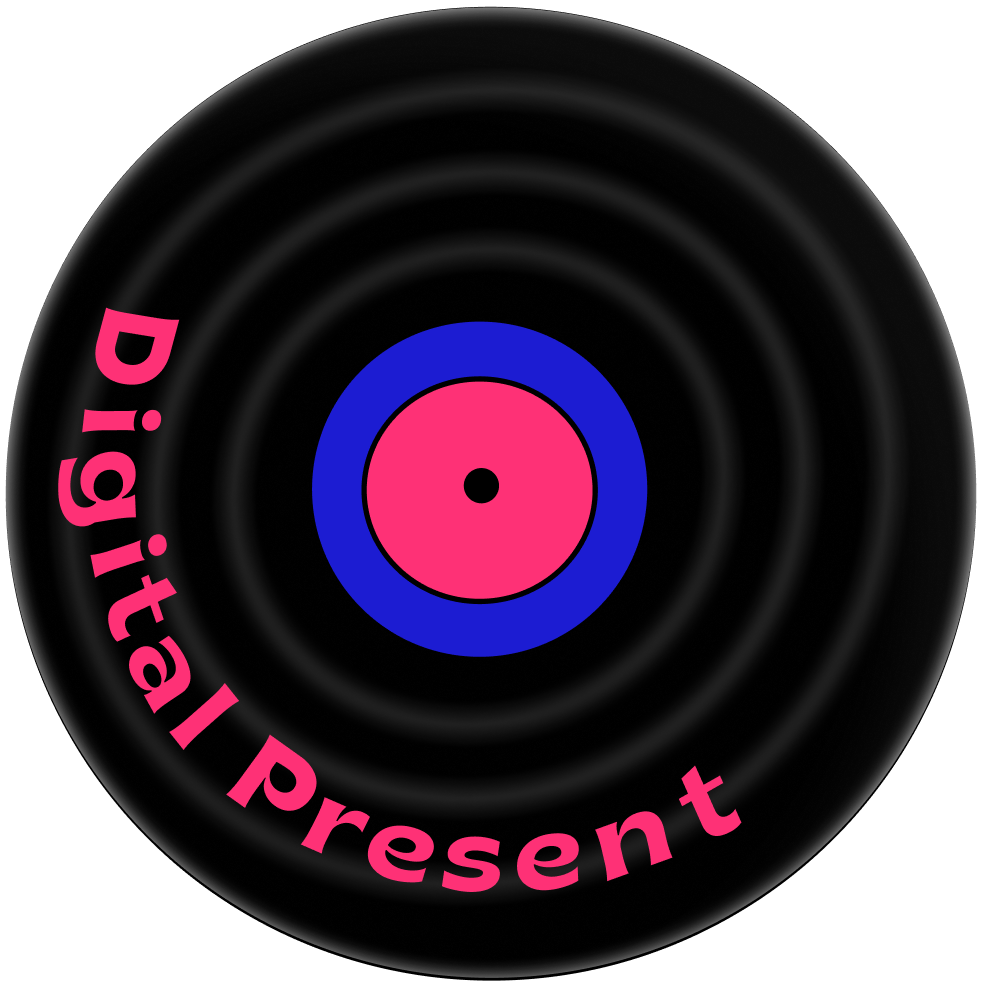
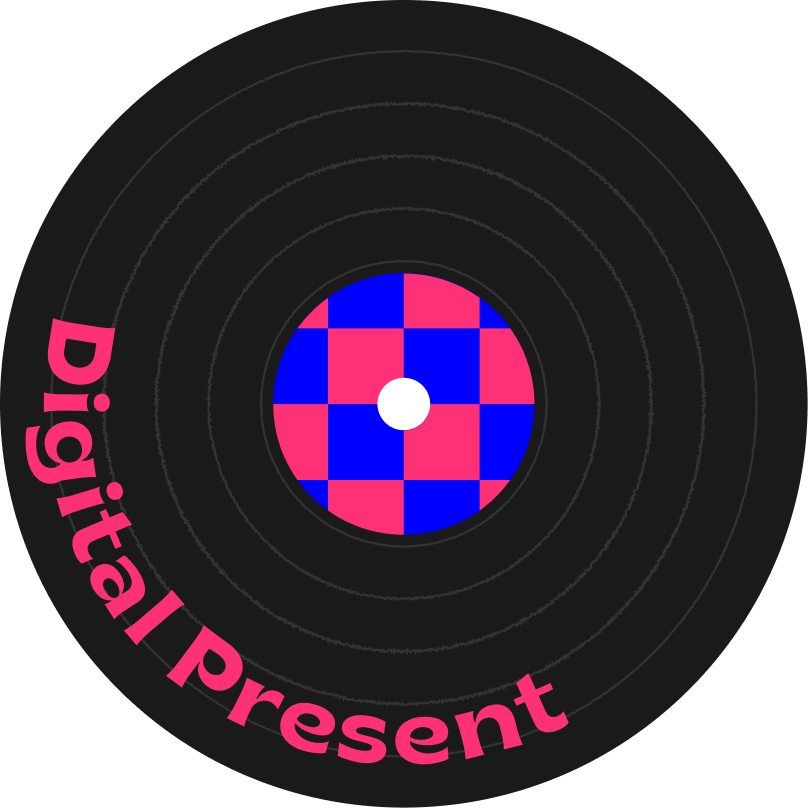
feat: Track 2 updated

diff --git a/riddler/src/components/registration-pages/tracks/Tracks.jsx b/riddler/src/components/registration-pages/tracks/Tracks.jsx
@@ -1,7 +1,7 @@
 import React from "react";
 import "./Tracks.css";
 import mythical from "./assets/mythical.png";
-import digital from "./assets/Track2.png";
+import digital from "./assets/digital.png";
 import dystopian from "./assets/Track3.png";
 import tracksBox from "./assets/track-box.svg";
 import Header from "../header/Header";
